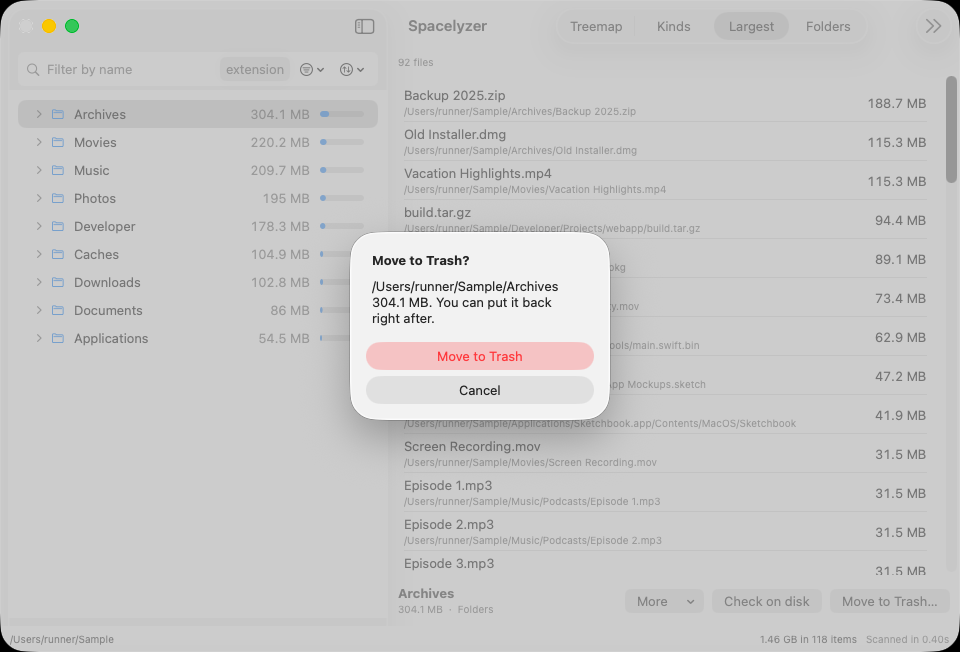
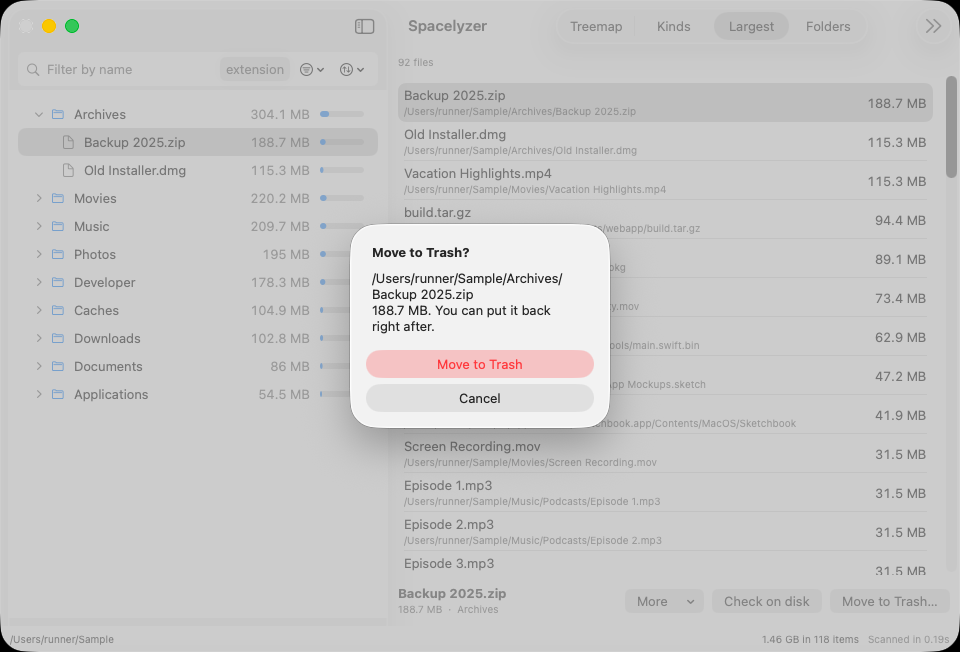
Refresh cleanup tour from inspected native screenshots and retain failed gates

diff --git a/docs/verification/README.md b/docs/verification/README.md
@@ -4,13 +4,20 @@ Status as of October 23, 2026. **Not release-ready.** No release, DMG distributi
 
 Older snapshot: [HISTORY-2026-10-06.md](HISTORY-2026-10-06.md). Ledger: [checkpoints.md](checkpoints.md). Open Mac items: [mac-batch-backlog.md](mac-batch-backlog.md).
 
-Latest: [October 23 run evidence and remaining capture failures](2026-10-23-demo-replacement.md). Run 40042043674 passed shipping/test/helper compilation, 166 ordering and 178 UI assertions on the scope correction. Strict capture acceptance still failed: step 78 identity unknown and history missing. Five v1 captures were pixel-validated. This is not a clean run.
+Latest: [combined verification and screenshot evidence](2026-10-23-combined-verification.md).
+Run 40050466225 on `9db328b5` passed native shipping/test/helper compilation,
+166 ordering and 178 UI assertions. All six original v1 captures were inspected,
+including newly visible compact Removal History. The whole run still failed:
+external Not scanned observation returned AXWindows error -25204, and wide
+history resize dimensions were not observed. Five valid cleanup images now
+illustrate the README/tour/safety guide; older overview/Kinds/review/installer
+images remain dated earlier evidence. No new DMG or release.
 
 ## What a Mac has executed
 
 | Area | Run | Result | Limit |
 |---|---|---|---|
-| Current native check execution | [40022177880](https://github.com/k-electron-bots/spacelyzer-native/actions/runs/40022177880) | 178 UI assertions and 166 required ordering checks passed; shipping/test builds passed | Whole run failed strict capture fidelity and v1 capture acceptance; repair is offline-only |
+| Current native check execution | [40050466225](https://github.com/k-electron-bots/spacelyzer-native/actions/runs/40050466225) | 178 UI assertions and 166 required ordering checks passed; shipping/test/helper builds passed; compact history visible | Whole run failed external observed identity and wide-history capture; not release-ready |
 | Functional UI and ordering | [39683697776](https://github.com/k-electron-bots/spacelyzer-native/actions/runs/39683697776) | 178/178 UI assertions, 159/159 ordering checks | Fixture data on a shared CI Mac |
 | Real Trash, undo, identity refusal, name collision, failure recovery | [39843869589](https://github.com/k-electron-bots/spacelyzer-native/actions/runs/39843869589) | 178 PASS / 0 FAIL, including a real Trash move of only the selected fixture; keyboard-focus checks passed | The run failed at artifact upload and the gate, so it is not a clean pass. Demo screenshots 72-81 were stale or blank; that capture bug has a fix |
 | Test-only build with the capture fix | [39858272561](https://github.com/k-electron-bots/spacelyzer-native/actions/runs/39858272561) | Compiled on the Mac | Compile only. The 1M-item scale run in that job did not complete |
@@ -18,7 +25,7 @@ Latest: [October 23 run evidence and remaining capture failures](2026-10-23-demo
 
 ## Open
 
-- Capture acceptance remains open: latest run 40042043674 still rejects step 78 identity and has five pixel-validated v1 captures of six, with history missing. The shipping scope correction compiled on the Mac; remaining AX mechanism failures need diagnosis, not weakened gates. See dated evidence above.
+- Capture acceptance remains open: run 40050466225 has six inspected original v1 captures, but the external sheet observer failed AXWindows (-25204), and the added wide-history resize was not observed. Native `sheetId=unknown` remains separate from the named observed-sheet-v1 criterion, which also failed. Compact history opening is now demonstrated; wide positioning is not. See dated evidence above.
 - The Linux-only 4 KB ancestor anomaly (NOLINKS, seed 100008, 100k) remains OPEN: not reproduced with its recorded parameters on October 23 (retained artifact shows 0 per-node diffs); original raw lost, observation unexplained and unretired. Separately, run-to-run hard-link attribution flips on the parallel backend were found and reproduced (order-dependence; a deterministic-attribution change is a pending owner decision). See checkpoints.md.
 - Three CSV formatting/export-flow/model-wiring checks passed on the CI Mac with injected panel/write seams. Real save-panel/file/import behavior and actual IME input remain unverified. VoiceOver speech is untested and is not a v1 gate.
 - Hard-link sizes are counted once for the whole scan, so a per-folder figure can depend on which link is reached first. This is by design.

diff --git a/docs/guide/tour.md b/docs/guide/tour.md
@@ -1,11 +1,11 @@
 # Visual tour
 
-These images were captured on a shared GitHub CI Mac (CI run 39683697776, October 2026; the review popover is from run 39690848529) and show the current interface. Their file names, counts and times are example scan results, not expected values for your Mac. Acceptance of behavior is tracked separately in [verification](../verification/README.md).
+These images were captured on a shared GitHub CI Mac (CI run 39683697776, October 2026; the review popover is from run 39690848529) and illustrate the interface at those checkpoints. The cleanup sections below use newer run 40050466225 images. Their file names, counts and times are example scan results, not expected values for your Mac. Acceptance of behavior is tracked separately in [verification](../verification/README.md).
 
 ## Follow folders or compare areas
 ![Outline beside the treemap](../images/overview.png)
 
-The outline shows folders and files with size bars. Expand a folder to follow its children. Selection reveals ancestors when needed. Arrow keys navigate; Right/Left expand and collapse; Return drills in. Cross-host Tab/Shift-Tab behavior is being repaired and is not yet accepted.
+The outline shows folders and files with size bars. Expand a folder to follow its children. Selection reveals ancestors when needed. Arrow keys navigate; Right/Left expand and collapse; Return drills in. Cross-host Tab/Shift-Tab checks have passed on the CI Mac; actual IME input remains unverified.
 
 The treemap uses area for allocated size. Choose folder, kind or depth coloring. Hover for a readout, click to select, or double-click to drill in. Tiny regions combine into a labeled remainder. Zero-byte matches have no drawable area: use the outline or Largest to inspect them.
 
@@ -25,3 +25,41 @@ Largest lists the 200 largest matching files and their paths. The header identif
 No matches means the current filter excludes the files under the displayed root. It is distinct from matching files with zero drawable allocated space. Clear filters or inspect the outline/Largest rather than assuming the scan contains nothing.
 
 Read [space, filters and safe removal](space-and-safety.md) before deleting files.
+
+
+## Review duplicates without assuming every byte is recoverable
+![Duplicates review listing groups and per-file actions](../images/duplicates.png)
+
+The review groups matching content and shows per-file or keep-one actions.
+Allocated bytes are not necessarily reclaimable space. The screenshot's warning
+explains limits for sparse, compressed and some clone copies. This capture shows
+the review, not a duplicate removal.
+
+## Choose exclusions for the next scan
+![Exclusions dialog with a path field and an explanation of rescan behavior](../images/exclusions.png)
+
+Exclusions apply when you rescan. Editing this list does not change the numbers
+already on screen. An excluded path the scan never saw is not proof that it is
+absent.
+
+## Review the exact file, then find it in Removal History
+![Move to Trash confirmation naming Backup 2025.zip and its full fixture path](../images/trash-confirmation.png)
+
+Check the full path before confirming. This is a disposable sample file, not a
+personal file. The app refuses protected, stale or filtered-out selections.
+
+![Removed sample file shown in the history popover with Put Back](../images/removal-history.png)
+
+The same session's compact window opened this history through the toolbar
+overflow after moving that file. Put Back is visible; no restore is claimed by
+this image. The wide-window capture did not pass, so positioning at that width
+remains unverified.
+
+These five new cleanup images are unmodified window-only captures from
+[run 40050466225](https://github.com/k-electron-bots/spacelyzer-native/actions/runs/40050466225),
+source `9db328b5`, on a shared CI Mac with disposable sample data. See
+[screenshot provenance](../verification/screenshots-40050466225.json) and
+[the failed run's exact limits](../verification/2026-10-23-combined-verification.md).
+The run's 166 ordering checks and 178 UI assertions passed, but its Not scanned
+observer and wide-history capture failed. The new images do not establish a
+clean run or release readiness.

diff --git a/docs/guide/space-and-safety.md b/docs/guide/space-and-safety.md
@@ -14,13 +14,25 @@ Check on disk shows an item as it is right now: preview, full path and size, ref
 ## Move to Trash
 ![The Move to Trash confirmation, naming the selected item with its full path and size](../images/trash-confirmation.png)
 
-Captured October 2026 on a CI Mac (run 39947043378) from the test-only build; window-only capture. The dialog shows a disposable sample fixture: the selected item is the fixture's Archives folder (304.1 MB), not a real user folder.
+Captured on a shared CI Mac in run 40050466225 from source `9db328b5`, using the test-only build. This unmodified window-only image names the disposable fixture file `/Users/runner/Sample/Archives/Backup 2025.zip` (188.7 MB), not a personal file. [Screenshot provenance](../verification/screenshots-40050466225.json).
 
 Review the full-path confirmation. Protected paths, selections outside the filter and selections awaiting a filter result are refused. Undo is available for removal. Do not treat this as permission to remove an unfamiliar system file.
 
 Batch removal moves several reviewed items in one pass, with one undo for the batch. The removal history lists everything removed this session, newest first, each with its own Put Back. A restore returns the item to its original location; rescan to refresh the numbers afterward.
 
-The [verification page](../verification/README.md) separates mocked policy checks, a narrow disposable CI remove/undo pass, and still-open real-hardware/failure behavior. Batch removal, removal history and the on-disk review are built and awaiting the same Mac verification.
+![The removed sample file listed in Removal History with Put Back](../images/removal-history.png)
+
+The same run visibly opened the compact-window history through the toolbar
+overflow and showed this exact removed file. The Put Back button is visible;
+this capture does not exercise it. Wide-window history capture failed because
+the requested resize dimensions were not observed. This is narrower evidence
+than a complete history acceptance result.
+
+![The Largest list after the sample file was moved to Trash and the result alert dismissed](../images/trash-done.png)
+
+The [verification page](../verification/README.md) separates fixture-scoped
+remove/undo and batch checks from real-hardware and failure limits. The whole
+run still failed capture acceptance; these valid images do not turn it green.
 
 ## Export the Largest list
-On the Largest tab, **Export CSV** saves the list as it was recorded at scan time to a file you choose. It reads nothing from the disk and changes no file other than that one. Columns are rank, size in bytes, path and a note. A path that cannot be written exactly (a name macOS stored in a form the scan could not represent) or that starts with a spreadsheet formula character is left blank with a note, never altered. The file is UTF-8 without a byte order mark; Excel may misread non-ASCII names when it opens the file directly, so import it with UTF-8 selected. The button is unavailable while the list is updating, out of date or empty, and nothing is written if the results change while the save panel is open. Export is built but not yet compiled or run on a Mac, and has not been tried in Excel.
+On the Largest tab, **Export CSV** saves the list as it was recorded at scan time to a file you choose. It reads nothing from the disk and changes no file other than that one. Columns are rank, size in bytes, path and a note. A path that cannot be written exactly (a name macOS stored in a form the scan could not represent) or that starts with a spreadsheet formula character is left blank with a note, never altered. The file is UTF-8 without a byte order mark; Excel may misread non-ASCII names when it opens the file directly, so import it with UTF-8 selected. The button is unavailable while the list is updating, out of date or empty, and nothing is written if the results change while the save panel is open. CSV formatting/export-flow/model-wiring checks passed on the Mac with injected save-panel/write seams. A real save panel, file readback and Excel/Numbers import remain unverified.

diff --git a/docs/verification/2026-10-23-combined-verification.md b/docs/verification/2026-10-23-combined-verification.md
@@ -1,0 +1,72 @@
+# October 23: compact history demonstrated, full capture gate still failed
+
+[Run 40050466225](https://github.com/k-electron-bots/spacelyzer-native/actions/runs/40050466225)
+tested source `9db328b54ac198ffbe49f66038e48fe9ae6cf0d6`, tree
+`42be79377fc3ab5f6e69ddf8433491b860f29f31`. The whole run **failed**. No retry,
+release, DMG, scale or soak follows automatically.
+
+## Native execution and inspected images
+
+- Universal engine, shipping Swift, helper typecheck/build and CI-only app built.
+- Ordering: `PASS 166 required checks, each exactly once`; no FAIL.
+- UI assertions: 178 PASS, no FAIL. Those are separate from capture fidelity.
+- All 81 demo screenshots and both artifact sets uploaded.
+- The six original v1 window-only images were directly inspected: exclusions,
+  duplicates, exact-file Trash confirmation, clean dismissed-result done state,
+  compact Removal History and FDA banner. Intended content is visible.
+- Compact history now opens through the native toolbar overflow. The live
+  snapshot and pixels show `Removed this session`, `Backup 2025.zip`, its sample
+  Archives path, 188.7 MB and Put Back. This is actual visible content, not a
+  background list or model-state substitute. The capture does not exercise
+  Put Back. Wider presentation is not established.
+
+The README, visual tour and safety guide use five unmodified window-only images
+from this artifact. [Exact files and hashes](screenshots-40050466225.json).
+Older overview, Kinds, on-disk review and installer images remain named earlier
+captures; this is not a wholly new screenshot set. No full-screen demo image is
+published as a window-only documentation image.
+
+## Failed acceptance and precise limits
+
+The named observed-sheet-v1 gate failed. Native step78 remained
+`sheet=true keyIsSheet=true alertModel=false sheetId=unknown sheetRows=1`.
+The normal screenshot visibly shows Not scanned, the explanatory qualifier and
+one locked row, but the external observer returned:
+
+```
+complete=false identity=unknown rows=0 scopeCount=0 texts=[]
+reason="attribute AXWindows error -25204"
+```
+
+The launched PID, executable, source and native `ps` start pin succeeded. Probe
+refusal and partial files were retained. No bound image/manifest was produced;
+the install-image and actual observed gate correctly refused it. A correct
+looking normal screenshot does not manufacture a bound external observation or
+turn the native accessor green. Why AXWindows failed remains unresolved.
+
+The added same-session wide-history stage failed after successful no-panel
+observation. Its retained `history-wide-resize.txt` says exactly:
+
+```
+resize dimensions not observed
+```
+
+No wide image exists. The helper did not log requested versus actual dimensions,
+so the cause is unknown. Display constraints/clamping or settling are hypotheses,
+not findings. The normal demo image is 1024x768; that alone does not prove which
+resize check failed. All six original shots passed the script, but wide evidence
+is additionally required, so v1 capture stayed incomplete.
+
+Final gate: `asserts=failure v1cap=failure`. Continue-on-error conclusions do not
+replace these outcomes. Full app compilation and compact history opening are
+now native evidence for this source; external identity export, wide history
+position/content and complete capture acceptance remain open.
+
+## Documentation closeout scope
+
+The new cleanup pictures and user-facing descriptions are refreshed from valid
+evidence. Product readiness is not closed. Actual IME input and real CSV save
+panel/file/import behavior remain unverified; CSV seam checks are not a real
+save-panel result. The older Linux 4 KB ancestor anomaly remains unexplained,
+and hard-link attribution decisions retain their own scope. No performance,
+release or complete-documentation claim follows from these screenshots.

diff --git a/docs/verification/checkpoints.md b/docs/verification/checkpoints.md
@@ -338,3 +338,8 @@ Four engine commits landed on main under the bot grant, each independently revie
 The open "Linux-only 4 KB difference at an ancestor directory" anomaly (NOLINKS tree, seed 100008, 100k items; root/d9/d9d52 each 4096 short) is UNRESOLVED and does not reproduce with its recorded parameters on current main (`3c882bb`): the retained accuracy-scale artifact for that exact seed and size shows the nolinks leg at 0 per-node diffs on both backends (100,002 nodes, full scope). The original raw output was lost, so the past observation is neither explained nor retired; any future recurrence is captured by default.
 
 A SEPARATE finding came out of the hunt (do not conflate): on the default (parallel) backend, byte attribution of a multiply-linked inode flips run to run on an UNCHANGED tree (independently reproduced: 4/200 and 2/25 observed flip rates; portable backend deterministic). Root allocated totals are invariant. This is order-dependence, documented as by design for cross-walk comparisons; same-backend run-to-run flips are a perceived-stability concern. A canonical smallest-path attribution design has real measured costs (1M-item heavy-links stress: +0.81s median wall (+23.8%; 3.41s to 4.22s), +30.2 MB peak RSS (+21.1%; 143.1 MB to 173.3 MB), unoptimized prototype; fixup pass ~0.4s for ~58k groups) and 13/13 deterministic dumps. Changing documented attribution behavior is the owner's product decision; the research packet and prototype (not for landing) are with the maintainer chain.
+
+
+## October 23 combined verification: source 9db328b5
+
+[Run40050466225](https://github.com/k-electron-bots/spacelyzer-native/actions/runs/40050466225) passed native builds,166ordering and178UI, and visibly opened compact history. Whole run failed external AXWindows(-25204) and unobserved wide resize dimensions. Six original v1 images inspected; five cleanup images refresh README/tour/safety with exact provenance. [Evidence and remaining limits](2026-10-23-combined-verification.md). No retry/release/DMG.

diff --git a/README.md b/README.md
@@ -20,6 +20,14 @@ See what is using your disk. A native macOS disk-space analyzer with a SwiftUI i
 - Export the Largest list as a CSV file (built, awaiting Mac verification).
 - Skip chosen locations with exclusions; the Not scanned list shows what was skipped and why.
 
+![Removal History showing a sample file moved to Trash and its Put Back action](docs/images/removal-history.png)
+
+Removal History lists this session's removals. This compact-window capture is from
+[run 40050466225](https://github.com/k-electron-bots/spacelyzer-native/actions/runs/40050466225)
+on a shared CI Mac with disposable sample files. It shows the history, not proof
+that Put Back was exercised in this capture. Wide-window history and the automated
+Not scanned identity check still failed in that run. [Current evidence](docs/verification/2026-10-23-combined-verification.md).
+
 Sizes describe allocated disk space, with hard links counted once. Scans stay on your Mac; the app has no networking code.
 
 ## Install
